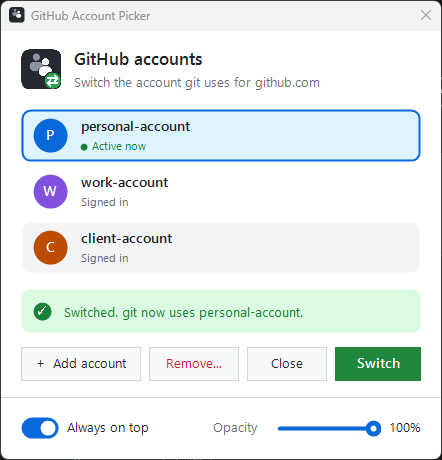
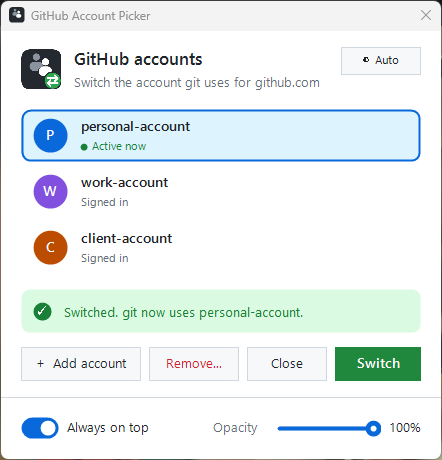
Add a theme button (Auto / Light / Dark) to the Windows popup
- New button in the popup's top-right corner cycles Auto -> Light ->
  Dark. Auto follows GIT_ACCOUNT_PICKER_THEME if set, otherwise the
  Windows app theme; Light and Dark always use that look.
- The change applies straight away (all controls, drawing and the title
  bar) and is remembered as theme= in ui-settings, like the other
  settings. Styled messages (Show-PickerDialog) use it too.
- Button colours are now set by Set-PickerButtonStyle so the theme can
  be re-applied; Set-PickerTitleBar re-colours the title bar.
- Smoke test covers the theme setting; README updated.

Changed region(s): [[0.8235, 0.1217, 0.9118, 0.1522], [0.9706, 0.9739, 1.0, 1.0], [0.0, 0.9739, 0.0294, 1.0]]

diff --git a/README.md b/README.md
@@ -18,12 +18,13 @@ an account when:
 - you deliberately ask, via the **desktop shortcut** or by running
   `git-switch-account.sh` yourself.
 
-![The desktop-shortcut popup on Windows after switching: three accounts with coloured initials, the new active one marked "Active now", a green "Switched. git now uses personal-account." message, Add account, Remove, Close and Switch buttons, and an "Always on top" switch and opacity slider at the bottom](docs/images/windows-picker.png)
+![The desktop-shortcut popup on Windows after switching: a theme button (Auto) top right, three accounts with coloured initials, the new active one marked "Active now", a green "Switched. git now uses personal-account." message, Add account, Remove, Close and Switch buttons, and an "Always on top" switch and opacity slider at the bottom](docs/images/windows-picker.png)
 
-**The Windows popup** follows your Windows light/dark app theme (set
-`GIT_ACCOUNT_PICKER_THEME=light` or `dark` to force one) and marks the
-account git is using right now as **Active now**. Double-click an account
-to switch to it.
+**The Windows popup** marks the account git is using right now as
+**Active now**; double-click an account to switch to it. The **theme
+button** (top right) cycles **Auto → Light → Dark**: Auto follows your
+Windows light/dark app setting (or `GIT_ACCOUNT_PICKER_THEME=light|dark`
+if you set it), Light and Dark always use that look.
 
 Opened from the **desktop shortcut**, it **stays open**: switching, adding
 and removing happen in place, a message strip says how each went, and it
@@ -35,7 +36,7 @@ account" use the same look. At the bottom:
 - **Always on top** keeps the popup above other windows (on by default).
 - **Opacity** makes it see-through, from 40% to 100%.
 
-Both are remembered for next time in
+These and the theme are remembered for next time in
 `~/.config/git-account-picker/ui-settings`. (macOS and Linux use the
 system's own dialogs, which don't have these.)
 
